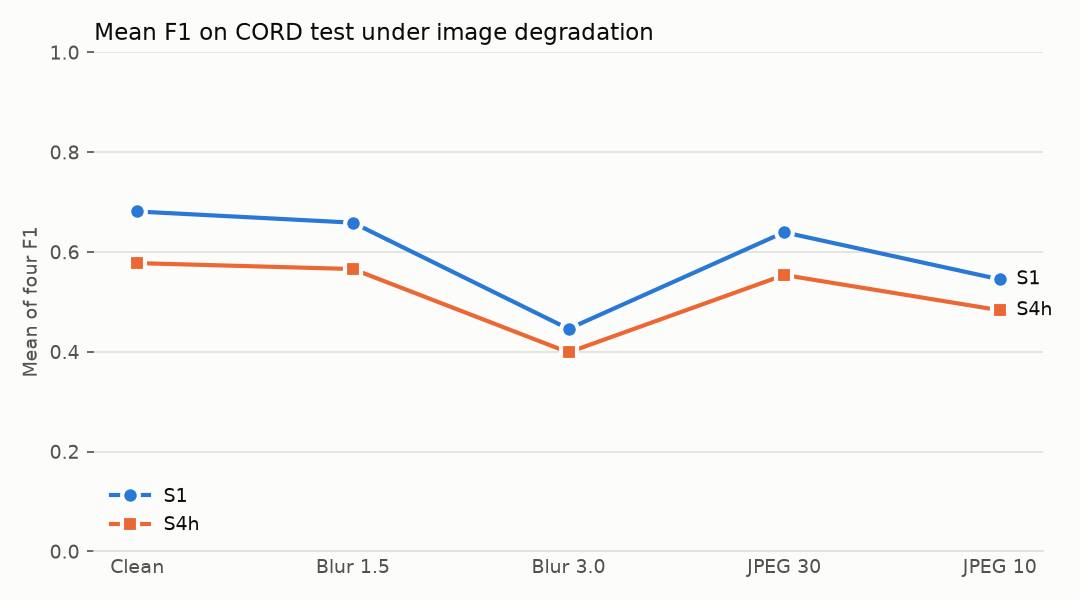
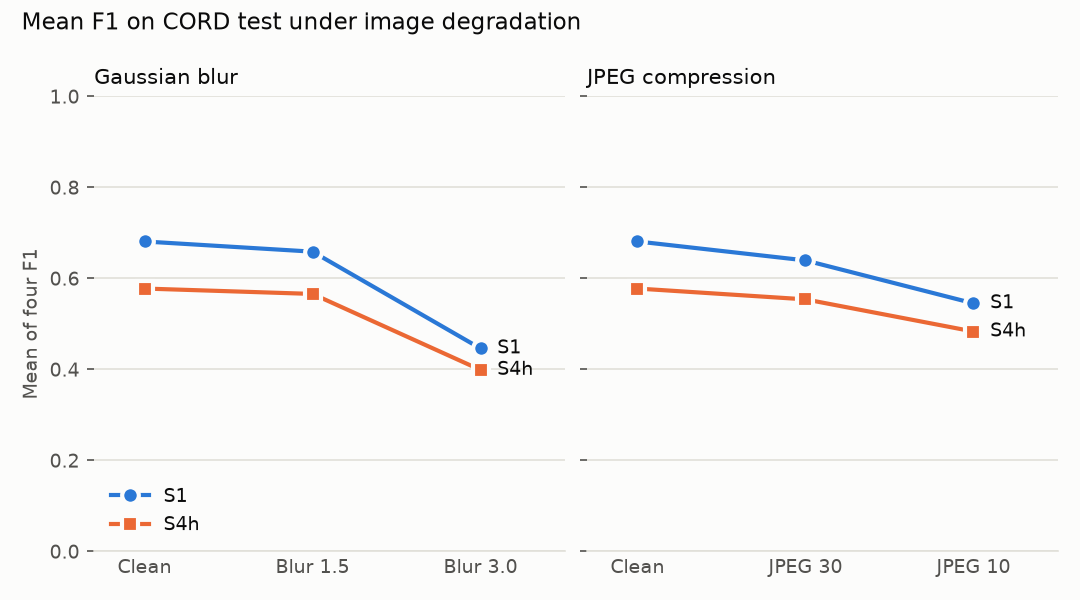
fix(evals): degradation figure as one panel per perturbation kind

diff --git a/evals/runners/make_final_tables.py b/evals/runners/make_final_tables.py
@@ -116,34 +116,41 @@ def degradation_figure(means: dict[str, dict[str, float | None]]) -> None:
     matplotlib.use("Agg")
     import matplotlib.pyplot as plt
 
-    figure, axis = plt.subplots(figsize=(7.2, 4.0), dpi=150)
+    names = dict(CONDITIONS)
+    # One panel per perturbation kind, each from clean through its two severities, on a shared
+    # y-axis: no line runs from one kind to the other.
+    panels = (("Gaussian blur", ("clean", "blur-1.5", "blur-3.0")),
+              ("JPEG compression", ("clean", "jpeg-30", "jpeg-10")))  # fmt: skip
+    figure, axes = plt.subplots(1, 2, figsize=(7.2, 4.0), dpi=150, sharey=True)
     figure.patch.set_facecolor(SURFACE)
-    axis.set_facecolor(SURFACE)
-    positions = list(range(len(CONDITIONS)))
-    for label, values in means.items():
-        points = [(x, values[c]) for x, (c, _) in zip(positions, CONDITIONS, strict=True)]
-        points = [(x, y) for x, y in points if y is not None]
-        if not points:
-            continue
-        xs, ys = zip(*points, strict=True)
-        style = {"color": SERIES_COLORS[label], "marker": SERIES_MARKERS[label]}
-        axis.plot(xs, ys, linewidth=2, markersize=8, markeredgecolor=SURFACE,
-                  markeredgewidth=2, label=label, **style)  # fmt: skip
-        axis.annotate(label, (xs[-1], ys[-1]), xytext=(8, 0), textcoords="offset points",
-                      va="center", color=INK, fontsize=9)  # fmt: skip
-    axis.set_xticks(positions, [name for _, name in CONDITIONS], color=INK_SECONDARY, fontsize=9)
-    axis.set_ylim(0, 1)
-    axis.set_ylabel("Mean of four F1", color=INK_SECONDARY, fontsize=9)
-    axis.tick_params(axis="y", colors=INK_SECONDARY, labelsize=9)
-    axis.tick_params(axis="x", length=0)
-    axis.grid(axis="y", color=GRID, linewidth=0.8)
-    axis.set_axisbelow(True)
-    for side in ("top", "right", "left"):
-        axis.spines[side].set_visible(False)
-    axis.spines["bottom"].set_color(GRID)
-    axis.set_title("Mean F1 on CORD test under image degradation", color=INK, fontsize=11,
-                   loc="left")  # fmt: skip
-    axis.legend(frameon=False, fontsize=9, loc="lower left", labelcolor=INK)
+    for axis, (title, family) in zip(axes, panels, strict=True):
+        axis.set_facecolor(SURFACE)
+        for label, values in means.items():
+            points = [(x, values[c]) for x, c in enumerate(family) if values.get(c) is not None]
+            if not points:
+                continue
+            xs, ys = zip(*points, strict=True)
+            axis.plot(xs, ys, linewidth=2, markersize=8, markeredgecolor=SURFACE,
+                      markeredgewidth=2, label=label, color=SERIES_COLORS[label],
+                      marker=SERIES_MARKERS[label])  # fmt: skip
+            axis.annotate(label, (xs[-1], ys[-1]), xytext=(8, 0), textcoords="offset points",
+                          va="center", color=INK, fontsize=9)  # fmt: skip
+        axis.set_xticks(range(len(family)), [names[c] for c in family], color=INK_SECONDARY,
+                        fontsize=9)  # fmt: skip
+        axis.set_xlim(-0.3, len(family) - 0.5)
+        axis.set_title(title, color=INK, fontsize=10, loc="left")
+        axis.tick_params(axis="y", colors=INK_SECONDARY, labelsize=9)
+        axis.tick_params(axis="x", length=0)
+        axis.grid(axis="y", color=GRID, linewidth=0.8)
+        axis.set_axisbelow(True)
+        for side in ("top", "right", "left"):
+            axis.spines[side].set_visible(False)
+        axis.spines["bottom"].set_color(GRID)
+    axes[0].set_ylim(0, 1)
+    axes[0].set_ylabel("Mean of four F1", color=INK_SECONDARY, fontsize=9)
+    axes[0].legend(frameon=False, fontsize=9, loc="lower left", labelcolor=INK)
+    figure.suptitle("Mean F1 on CORD test under image degradation", color=INK, fontsize=11,
+                    x=0.02, ha="left")  # fmt: skip
     figure.tight_layout()
     figure.savefig(FINAL / "cord_degradation_test_v1_1_1.png", facecolor=SURFACE)
     plt.close(figure)
